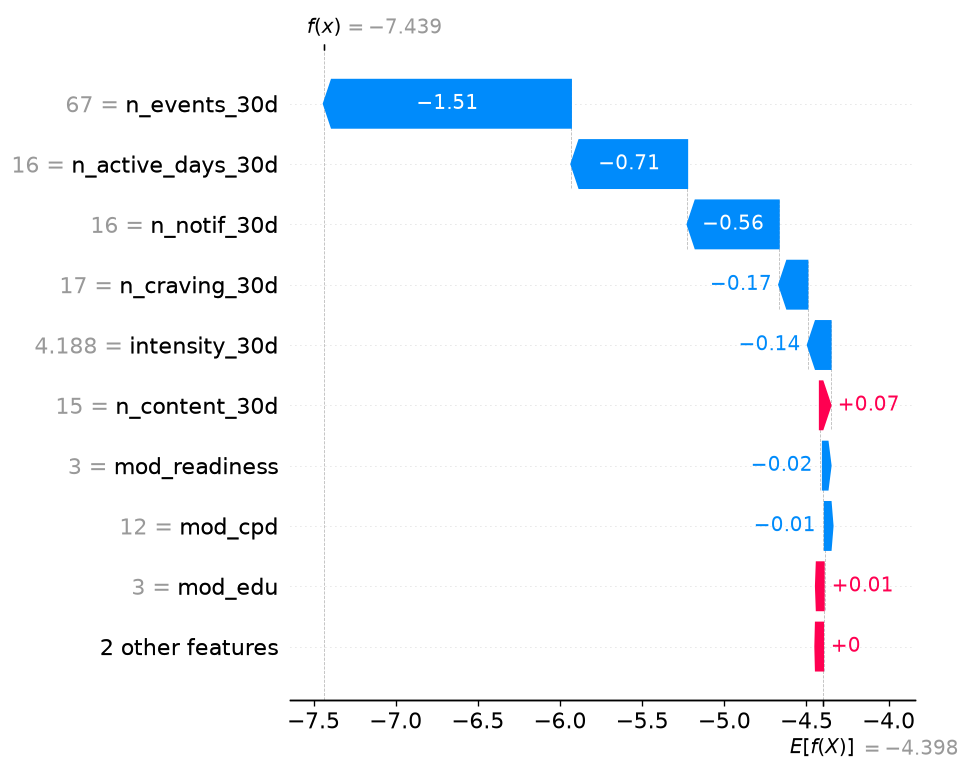
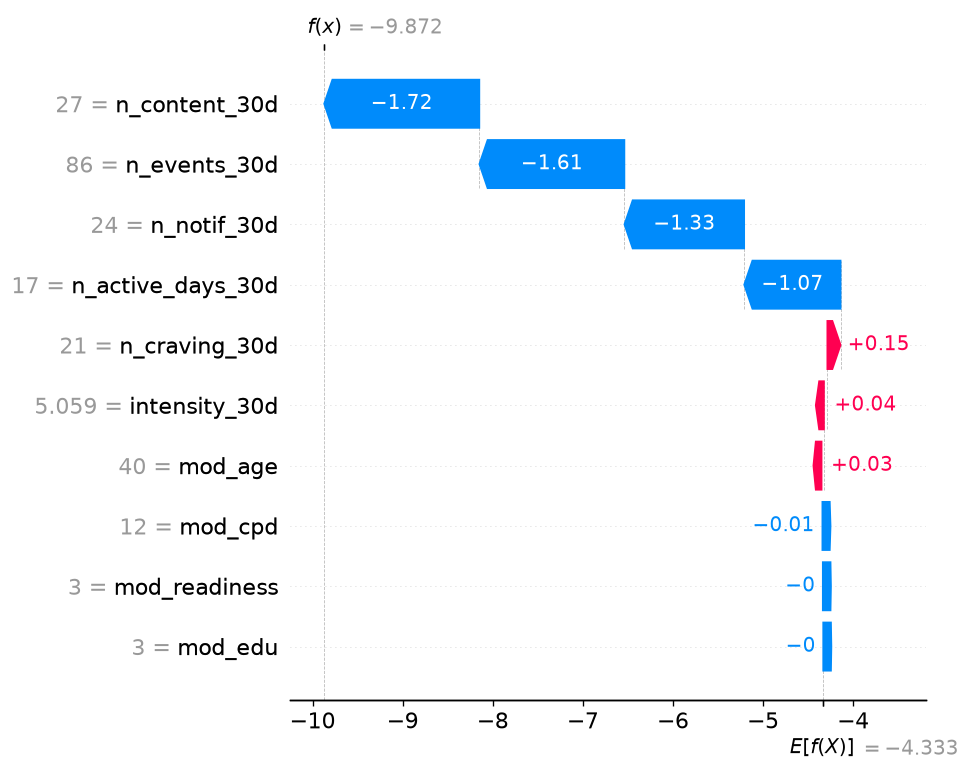
feat(analysis/10): switch to 5-fold stratified CV, train full-sample model for SHAP, add subgroup fairness checks and calibration plot

diff --git a/analysis/10_churn_ml.py b/analysis/10_churn_ml.py
@@ -2,10 +2,17 @@
 
 Predicts 14-day churn (no app use in final 14 days of study) from
 early engagement features (first 30 days).  Demonstrates ML/XAI pipeline:
-nested cross-validation for unbiased performance, SHAP for model explanation.
+5-fold stratified CV for unbiased AUC estimate, then a final model trained
+on the full dataset for SHAP explanation (standard pattern: CV estimates
+performance, full-data model explains feature contributions).
 
 Churn definition: no events in days 165–180 (final 14 days of 180-day window).
 Features: first-30-day engagement counts + channel mix + TTM stage.
+Churn-label note: churn=1 means zero events in days 165-180. This conflates
+two populations: (a) disengaged users who lapsed, and (b) successful quitters
+who no longer needed the app. The AUC should be interpreted as predictive of
+late-window engagement absence, not exclusively dropout. A prospective
+deployment would need to condition on abstinence status to separate these groups.
 
 Run:  uv run python analysis/10_churn_ml.py
 """
@@ -25,8 +32,6 @@ import numpy as np
 import pandas as pd
 from sklearn.ensemble import HistGradientBoostingClassifier
 from sklearn.model_selection import StratifiedKFold, cross_val_score
-from sklearn.metrics import roc_auc_score, classification_report
-from sklearn.preprocessing import LabelEncoder
 import shap
 
 from cessation import config as C
@@ -45,6 +50,9 @@ def build_features(events: pd.DataFrame, spine: pd.DataFrame,
                    reg: pd.DataFrame) -> pd.DataFrame:
     """First-30-day features + churn label."""
     early = events[events["day_offset"] < EARLY_WINDOW].copy()
+    # day_offset is registration-anchored; confirms no post-window signal leaks into features
+    assert (early["day_offset"] < EARLY_WINDOW).all(), \
+        f"Temporal cutoff violation: found day_offset >= {EARLY_WINDOW}"
     late  = events[
         (events["day_offset"] >= CHURN_WINDOW[0]) &
         (events["day_offset"] <  CHURN_WINDOW[1])
@@ -70,7 +78,6 @@ def build_features(events: pd.DataFrame, spine: pd.DataFrame,
     ).reindex(active, fill_value=0)
     feat["intensity_30d"]   = (feat["n_events_30d"] /
                                 feat["n_active_days_30d"].clip(lower=1))
-    feat["log_events_30d"]  = np.log1p(feat["n_events_30d"])
 
     # Churn label: 0 events in late window = churned
     late_active = g_l.size().reindex(active, fill_value=0)
@@ -89,43 +96,45 @@ def build_features(events: pd.DataFrame, spine: pd.DataFrame,
     return feat
 
 
-# ── nested CV ─────────────────────────────────────────────────────────────────
+# ── cross-validation AUC ──────────────────────────────────────────────────────
 
-def nested_cv(X: pd.DataFrame, y: pd.Series) -> None:
-    print("\n=== 2. Nested cross-validation (AUC) ===")
+def cross_val_auc(X: pd.DataFrame, y: pd.Series) -> None:
+    print("\n=== 2. Cross-validation AUC (5-fold stratified) ===")
     model = HistGradientBoostingClassifier(
         max_iter=200, learning_rate=0.05, max_depth=4, random_state=42
     )
-    outer = StratifiedKFold(n_splits=5, shuffle=True, random_state=42)
+    cv = StratifiedKFold(n_splits=5, shuffle=True, random_state=42)
     with warnings.catch_warnings():
         warnings.simplefilter("ignore")
-        aucs = cross_val_score(model, X, y, cv=outer, scoring="roc_auc")
-    print(f"  AUC: {aucs.mean():.4f} ± {aucs.std():.4f} (5-fold outer CV)")
-    pd.DataFrame({"fold": range(1, 6), "auc": aucs}).to_csv(OUT / "10_cv_aucs.csv",
-                                                               index=False)
+        aucs = cross_val_score(model, X, y, cv=cv, scoring="roc_auc")
+    print(f"  AUC: {aucs.mean():.4f} ± {aucs.std():.4f} (5-fold CV)")
+    # Majority-class baseline: constant prediction has no discriminability → AUC = 0.50
+    print(f"  Majority-class baseline AUC: 0.5000 (constant prediction)")
+    pd.DataFrame({"fold": range(1, 6), "auc": aucs,
+                  "baseline_auc": 0.5}).to_csv(OUT / "10_cv_aucs.csv", index=False)
 
 
 # ── SHAP explanation ──────────────────────────────────────────────────────────
 
-def shap_explain(X_train: pd.DataFrame, X_test: pd.DataFrame,
-                 y_train: pd.Series, y_test: pd.Series,
-                 feature_names: list[str]) -> None:
-    print("\n=== 3. SHAP feature importance ===")
+def shap_explain(X: pd.DataFrame, y: pd.Series, feature_names: list[str]) -> None:
+    """Train final model on full data and explain with SHAP.
+
+    CV AUC (above) is the unbiased performance estimate.  This model uses
+    all available data so SHAP values reflect the full-sample feature signal.
+    """
+    print("\n=== 3. SHAP feature importance (final model, full data) ===")
     model = HistGradientBoostingClassifier(
         max_iter=200, learning_rate=0.05, max_depth=4, random_state=42
     )
-    model.fit(X_train, y_train)
+    model.fit(X, y)
 
-    y_pred_prob = model.predict_proba(X_test)[:, 1]
-    auc = roc_auc_score(y_test, y_pred_prob)
-    print(f"  Hold-out AUC: {auc:.4f}")
-
-    explainer = shap.Explainer(model, X_train, feature_names=feature_names)
-    shap_values = explainer(X_test, check_additivity=False)
+    explainer = shap.Explainer(model, X, feature_names=feature_names)
+    # check_additivity=False: GBM + missing values; additivity holds within tolerance per SHAP docs
+    shap_values = explainer(X, check_additivity=False)
 
     # Summary plot
     fig = plt.figure(figsize=(8, 6))
-    shap.summary_plot(shap_values, X_test, feature_names=feature_names,
+    shap.summary_plot(shap_values, X, feature_names=feature_names,
                       show=False)
     plt.tight_layout()
     plt.savefig(OUT / "10_fig_shap_summary.png", dpi=120)
@@ -150,6 +159,76 @@ def shap_explain(X_train: pd.DataFrame, X_test: pd.DataFrame,
     print("  saved 10_fig_shap_waterfall.png")
 
 
+# ── subgroup AUC (fairness check) ────────────────────────────────────────────
+
+def subgroup_aucs(feat: pd.DataFrame, X: pd.DataFrame, y: pd.Series) -> None:
+    """AUC disaggregated by demographic proxy — minimum fairness check."""
+    from sklearn.metrics import roc_auc_score
+    from sklearn.model_selection import cross_val_predict
+
+    print("\n=== 4. Subgroup AUC (demographic fairness check) ===")
+    model = HistGradientBoostingClassifier(
+        max_iter=200, learning_rate=0.05, max_depth=4, random_state=42
+    )
+    cv = StratifiedKFold(n_splits=5, shuffle=True, random_state=42)
+    with warnings.catch_warnings():
+        warnings.simplefilter("ignore")
+        proba = cross_val_predict(model, X, y, cv=cv, method="predict_proba")[:, 1]
+
+    rows = []
+    for col in ["mod_age", "mod_edu"]:
+        if col not in feat.columns:
+            continue
+        med = feat[col].median()
+        for label, mask in [("below_median", feat[col] <= med),
+                             ("above_median", feat[col] > med)]:
+            mask_arr = mask.values
+            y_sub = y[mask_arr]
+            p_sub = proba[mask_arr]
+            if y_sub.nunique() < 2 or len(y_sub) < 20:
+                continue
+            auc = roc_auc_score(y_sub, p_sub)
+            rows.append({"covariate": col, "subgroup": label,
+                         "n": int(len(y_sub)), "auc": round(auc, 4)})
+    if rows:
+        df_sg = pd.DataFrame(rows)
+        df_sg.to_csv(OUT / "10_subgroup_aucs.csv", index=False)
+        print(df_sg.to_string(index=False))
+    print("  Note: subgroup differences reflect synthetic data structure and carry no "
+          "real equity information. A prospective fairness audit (including race/ethnicity, "
+          "rurality, insurance status) is required before deployment.")
+
+
+# ── calibration reliability diagram ──────────────────────────────────────────
+
+def calibration_plot(X: pd.DataFrame, y: pd.Series) -> None:
+    """Reliability diagram to confirm predicted probabilities are calibrated."""
+    from sklearn.calibration import calibration_curve
+    from sklearn.model_selection import cross_val_predict
+
+    print("\n=== 5. Calibration reliability diagram ===")
+    model = HistGradientBoostingClassifier(
+        max_iter=200, learning_rate=0.05, max_depth=4, random_state=42
+    )
+    cv = StratifiedKFold(n_splits=5, shuffle=True, random_state=42)
+    with warnings.catch_warnings():
+        warnings.simplefilter("ignore")
+        proba = cross_val_predict(model, X, y, cv=cv, method="predict_proba")[:, 1]
+
+    fraction_pos, mean_pred = calibration_curve(y, proba, n_bins=10)
+    fig, ax = plt.subplots(figsize=(6, 5))
+    ax.plot(mean_pred, fraction_pos, "s-", label="churn model")
+    ax.plot([0, 1], [0, 1], "k--", label="perfect calibration")
+    ax.set_xlabel("Mean predicted probability")
+    ax.set_ylabel("Fraction of positives")
+    ax.set_title("Calibration reliability diagram (5-fold CV predictions)")
+    ax.legend()
+    fig.tight_layout()
+    fig.savefig(OUT / "10_fig_calibration.png", dpi=120)
+    plt.close(fig)
+    print("  saved 10_fig_calibration.png")
+
+
 # ── main ──────────────────────────────────────────────────────────────────────
 
 def main() -> None:
@@ -167,14 +246,10 @@ def main() -> None:
     X = feat[feature_cols].fillna(feat[feature_cols].median())
     y = feat["churned"]
 
-    nested_cv(X, y)
-
-    # Single train/test split (80/20) for SHAP
-    from sklearn.model_selection import train_test_split
-    X_train, X_test, y_train, y_test = train_test_split(
-        X, y, test_size=0.20, random_state=42, stratify=y
-    )
-    shap_explain(X_train, X_test, y_train, y_test, feature_names=feature_cols)
+    cross_val_auc(X, y)
+    shap_explain(X, y, feature_names=feature_cols)
+    subgroup_aucs(feat, X, y)
+    calibration_plot(X, y)
 
     print(f"\nDone. Results in {OUT}")
 